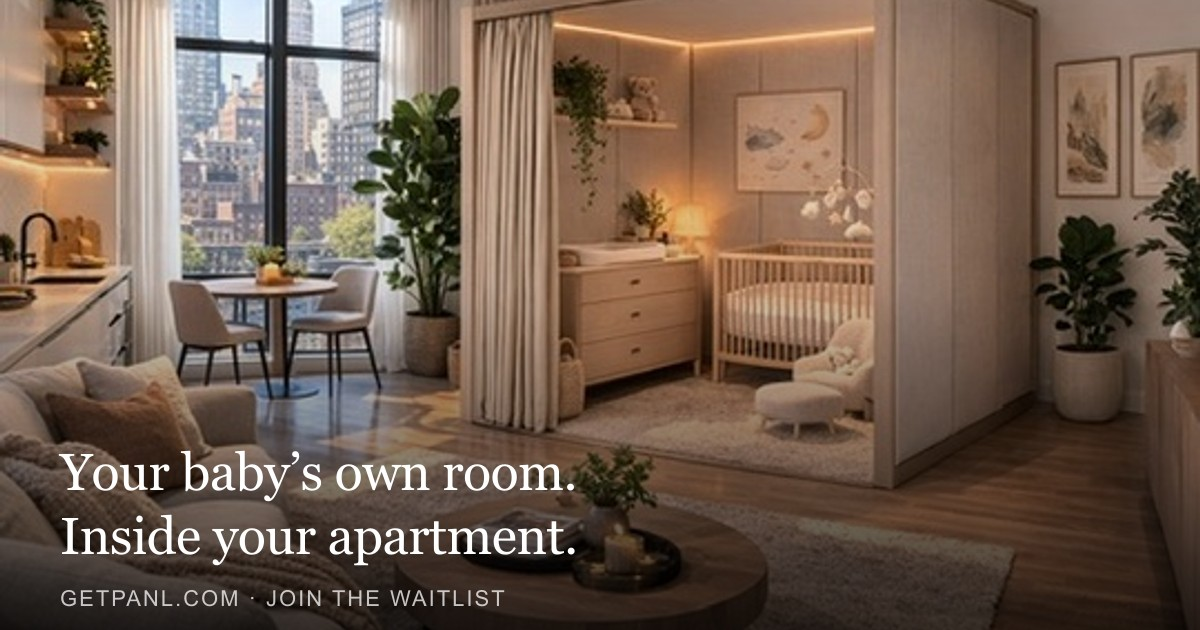
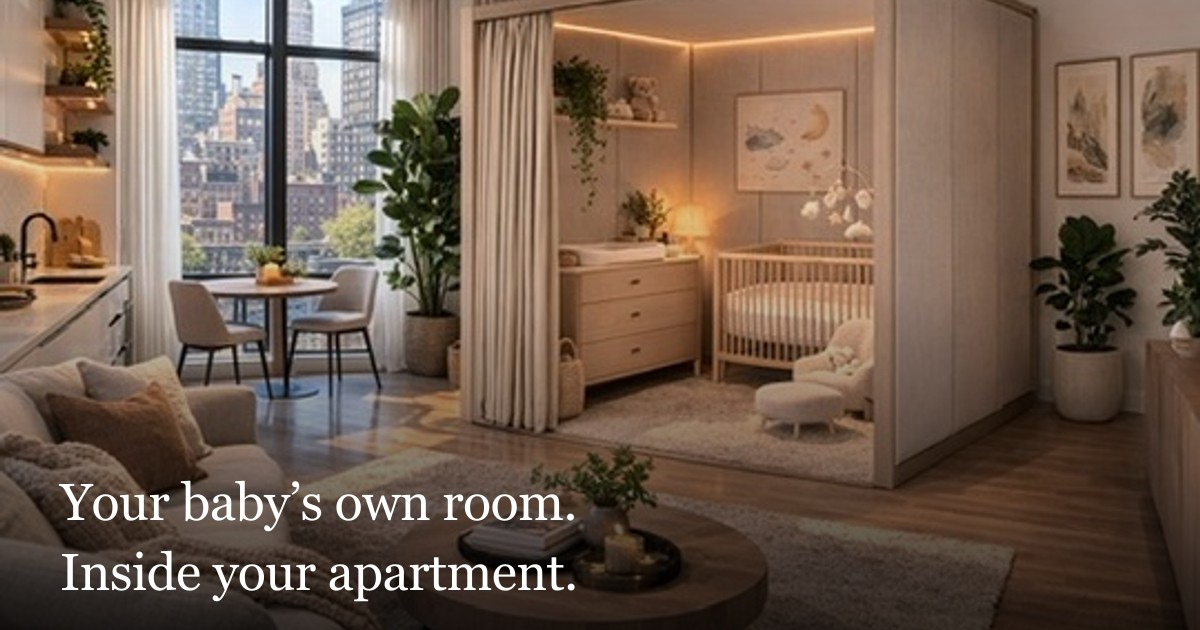
Remove URL from OG image, update description

Changed region(s): [[0.0308, 0.7238, 0.4933, 0.9651]]

diff --git a/index.html b/index.html
@@ -10,7 +10,7 @@
     <meta property="og:type" content="website">
     <meta property="og:url" content="https://getpanl.netlify.app">
     <meta property="og:title" content="Panl — Your baby's own room. Inside your apartment.">
-    <meta property="og:description" content="Panl creates a quieter, darker sleep space in the corner of your living room — without moving or renovating. No spare room required. Join the waitlist.">
+    <meta property="og:description" content="A modular enclosure that clips into the corner of your living room. Quieter, darker, ventilated — so your baby sleeps longer and you get your evenings back.">
     <meta property="og:image" content="https://getpanl.netlify.app/images/og-image.jpg">
     <meta property="og:image:width" content="1200">
     <meta property="og:image:height" content="630">
